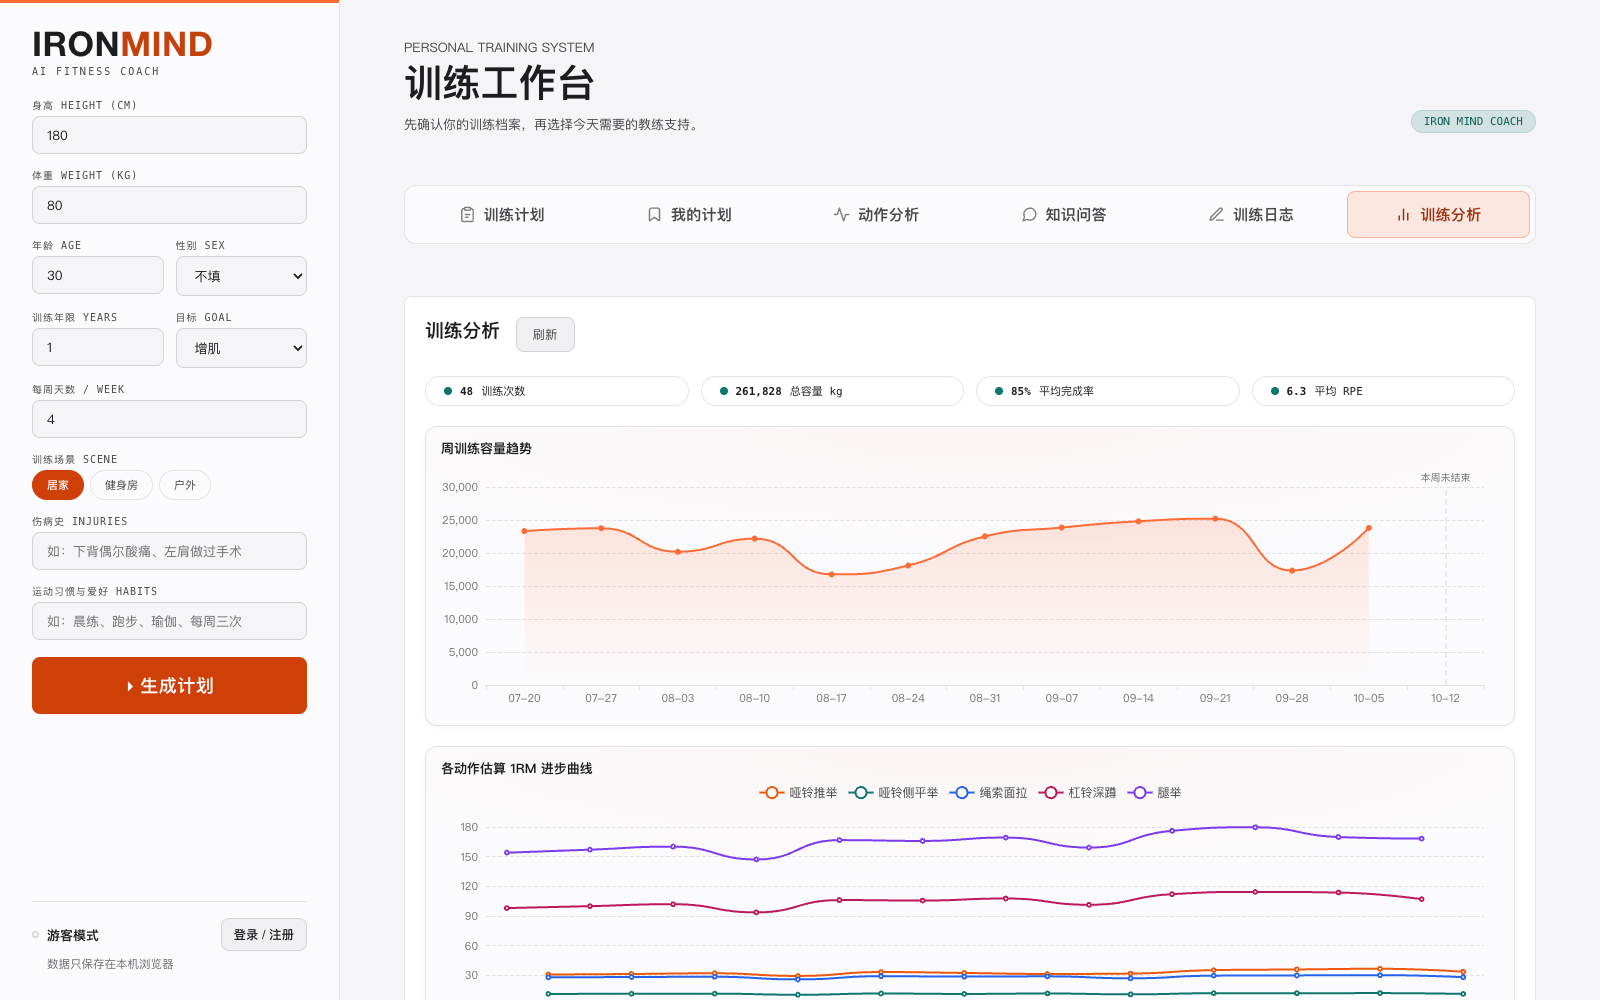
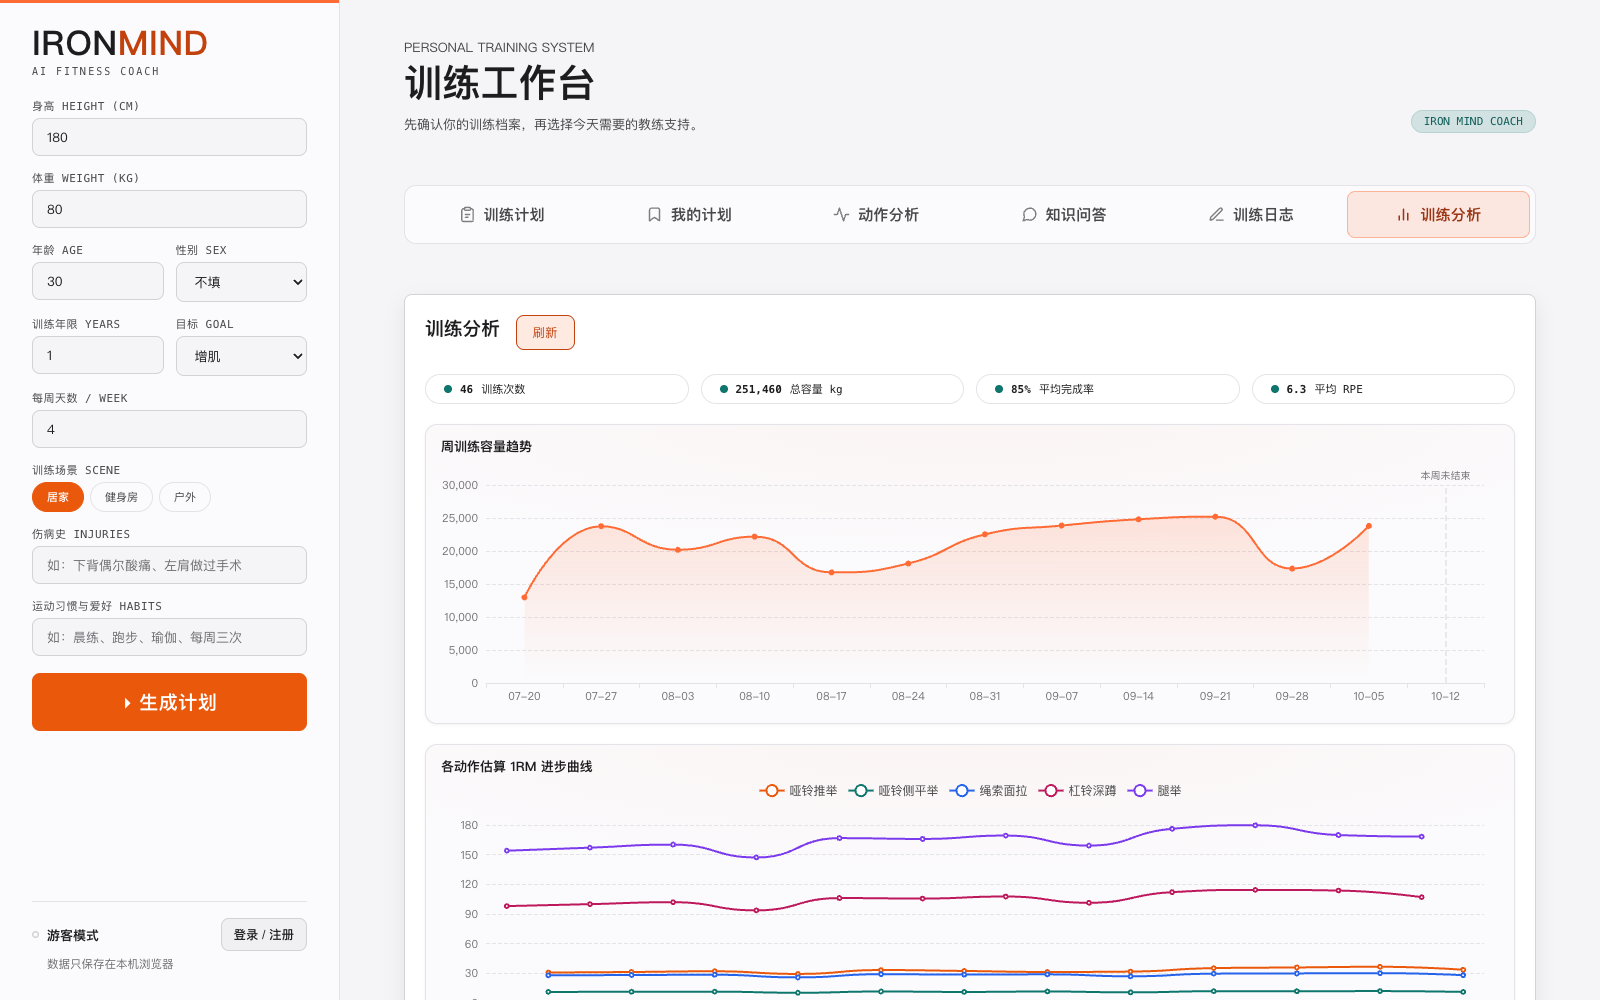
fix(ui): 打开已保存计划时空态引导区未清除，并更新 README 与截图
从「我的计划」打开一份计划时，#plan-result 里原有的「Ready to Forge」
空态引导区不会被移除——renderPlanResult 是 append 而非 replace，而生成
路径在开跑时就 replaceChildren() 清过一次，openSavedPlan 这条没有。
结果是空态与计划上下叠在一起，用户会以为计划没加载完整。补上清空。

README 有两处描述停留在深色主题时期：技术栈表的「前端」一行与项目结构
里的 index.html 注释都写着「暗黑工业风」，而界面自 10-12 已改为苹果式
浅色。一并订正，并把前端一行补全为「单文件、无构建步骤、无框架」。

截图重拍：按钮配色与字体两次改动后，5 张 README 截图与社交预览图均已
落后。本次按当前界面重出，社交预览图的模板色值同步由 #cf3f08 更新为
#ea580c。

测试：1257 passed

diff --git a/app/static/index.html b/app/static/index.html
@@ -4202,6 +4202,12 @@ async function openSavedPlan(planId) {
     const plan = await resp.json();
     const area = document.getElementById('plan-result');
     if (!area) return;
+    // 必须先清空。renderPlanResult 是 append 而不是 replace，容器里还留着
+    // 「Ready to Forge」空态引导区（它在 #plan-result 内部，见 HTML 结构）。
+    // 生成路径在开跑时就 replaceChildren() 清过一次，这条路没有，于是从
+    // 「我的计划」打开一份计划时，空态与计划会上下叠在一起——用户会以为
+    // 计划没加载完整。
+    area.replaceChildren();
     showPlanSaveBarHidden();
     renderPlanResult(area, plan);
     // 必须先切回「训练计划」再滚动。计划渲染在 panel-plan 里，而用户此刻
